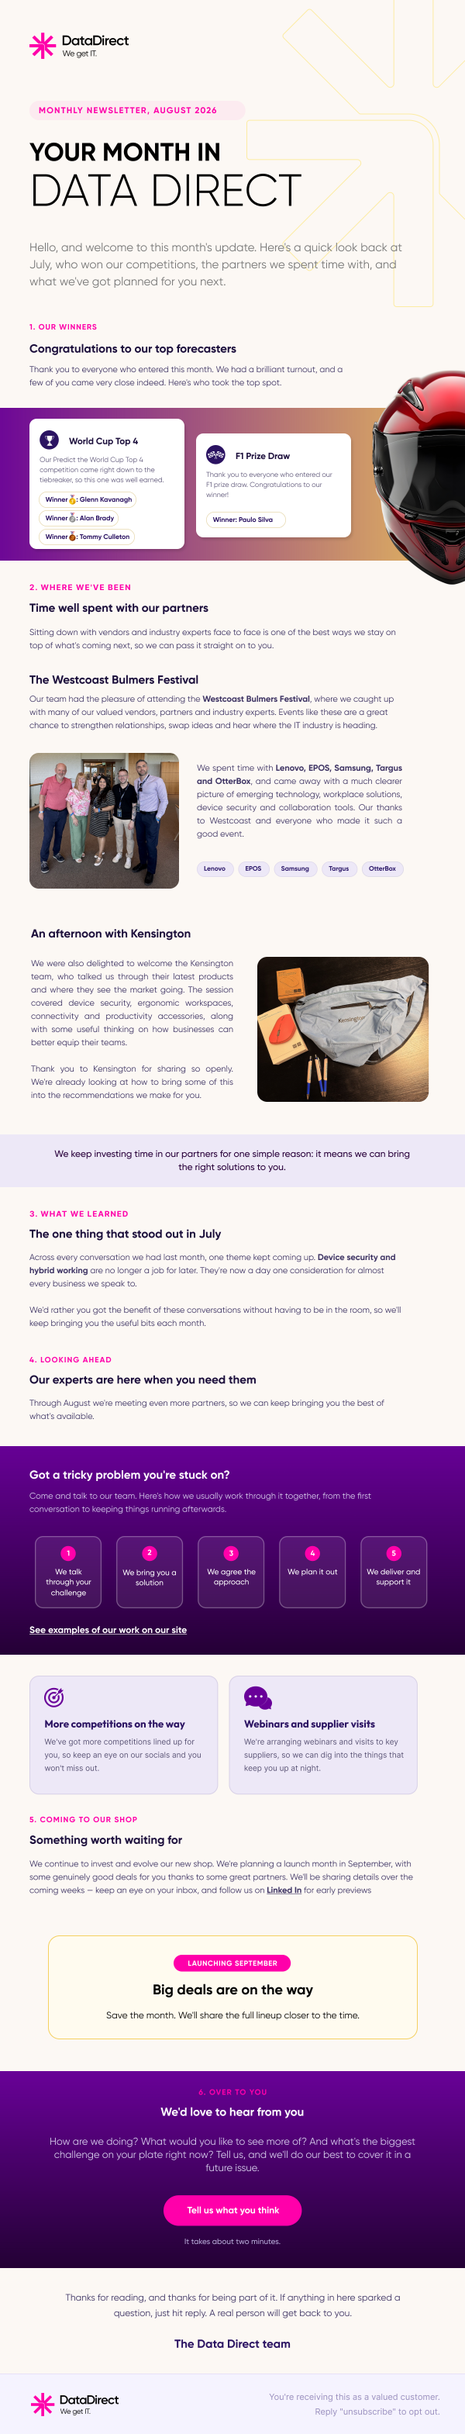
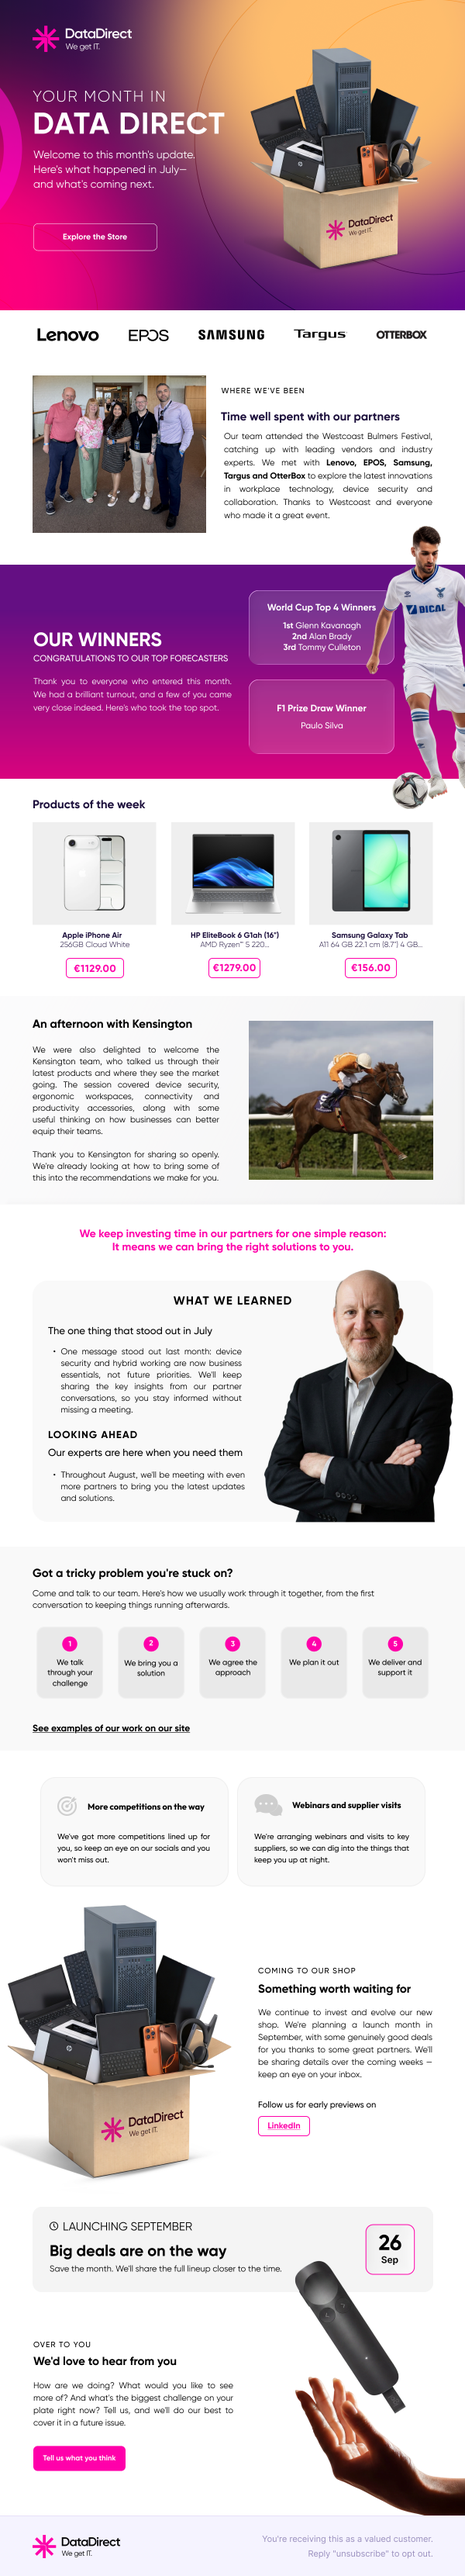
newsletter: replace with new August design (Figma 83:20), image-based
New richer layout (hero + Explore the Store, partner logos, winners with
footballer, Products of the Week with prices, Kensington, lifecycle,
Launching September, over-to-you). Same image-based method: Figma exported at
2x, sliced into 8 responsive images with explicit heights, CTAs linked. FINAL
folder now holds this design; slices renamed nl2-1…8.

diff --git a/monthly-newsletter/FINAL/index-hubspot.html b/monthly-newsletter/FINAL/index-hubspot.html
@@ -1,45 +1,18 @@
 <!DOCTYPE html PUBLIC "-//W3C//DTD XHTML 1.0 Transitional//EN" "https://www.w3.org/TR/xhtml1/DTD/xhtml1-transitional.dtd">
-<html xmlns="http://www.w3.org/1999/xhtml" lang="en" xml:lang="en">
-<head>
-<meta charset="utf-8" />
-<meta name="viewport" content="width=device-width, initial-scale=1.0" />
-<meta http-equiv="X-UA-Compatible" content="IE=edge" />
-<meta name="format-detection" content="telephone=no, date=no, address=no, email=no, url=no" />
-<title>Your Month in DataDirect &mdash; Monthly Newsletter</title>
-<style type="text/css">
-  html, body { margin:0 !important; padding:0 !important; }
-  body { background-color:#e8e1d7; }
-  img { border:0; outline:none; text-decoration:none; display:block; -ms-interpolation-mode:bicubic; }
-  table { border-collapse:collapse !important; }
-  a img { border:0; }
-  /* Slices scale proportionally to the screen width = exact design, zoomed out. No reflow, no stacking. */
-  .slice { width:100% !important; max-width:600px !important; height:auto !important; display:block; }
-</style>
-</head>
-<body style="margin:0; padding:0; background-color:#e8e1d7;">
-  <div style="display:none; overflow:hidden; line-height:1px; opacity:0; max-height:0; max-width:0; mso-hide:all; font-size:1px; color:#e8e1d7;">
-    Your month in DataDirect &mdash; winners, partner visits, what we learned in July, and what&rsquo;s coming next.
-  </div>
-  <table role="presentation" width="100%" cellpadding="0" cellspacing="0" border="0" style="background-color:#e8e1d7;">
-    <tr><td align="center" style="padding:0;">
-      <table role="presentation" width="600" cellpadding="0" cellspacing="0" border="0" style="width:100%; max-width:600px;">
-        <tr><td style="padding:0; font-size:0; line-height:0;">
-          <img src="https://146425634.fs1.hubspotusercontent-eu1.net/hubfs/146425634/nl-1.png" width="600" height="1850" class="slice" alt="Your month in DataDirect. Our winners: World Cup Top 4 (Glenn Kavanagh, Alan Brady, Tommy Culleton) and F1 Prize Draw (Paulo Silva). Where we've been: the Westcoast Bulmers Festival with Lenovo, EPOS, Samsung, Targus and OtterBox, and an afternoon with Kensington." style="width:100%; max-width:600px; height:auto; display:block;" />
-        </td></tr>
-        <tr><td style="padding:0; font-size:0; line-height:0;">
-          <a href="https://www.datadirect.ie/it-solutions" target="_blank"><img src="https://146425634.fs1.hubspotusercontent-eu1.net/hubfs/146425634/nl-2.png" width="600" height="285" class="slice" alt="Got a tricky problem you're stuck on? Here's how our team works through it with you. See examples of our work on our site." style="width:100%; max-width:600px; height:auto; display:block;" /></a>
-        </td></tr>
-        <tr><td style="padding:0; font-size:0; line-height:0;">
-          <img src="https://146425634.fs1.hubspotusercontent-eu1.net/hubfs/146425634/nl-3.png" width="600" height="520" class="slice" alt="More competitions and webinars on the way. Coming to our shop: big deals launching September." style="width:100%; max-width:600px; height:auto; display:block;" />
-        </td></tr>
-        <tr><td style="padding:0; font-size:0; line-height:0;">
-          <a href="mailto:sales@datadirect.ie"><img src="https://146425634.fs1.hubspotusercontent-eu1.net/hubfs/146425634/nl-4.png" width="600" height="270" class="slice" alt="We'd love to hear from you — tell us what you think." style="width:100%; max-width:600px; height:auto; display:block;" /></a>
-        </td></tr>
-        <tr><td style="padding:0; font-size:0; line-height:0;">
-          <img src="https://146425634.fs1.hubspotusercontent-eu1.net/hubfs/146425634/nl-5.png" width="600" height="214" class="slice" alt="Thanks for reading. The Data Direct team." style="width:100%; max-width:600px; height:auto; display:block;" />
-        </td></tr>
-      </table>
-    </td></tr>
-  </table>
-</body>
-</html>
+<html xmlns="http://www.w3.org/1999/xhtml"><head>
+<meta charset="utf-8" /><meta name="viewport" content="width=device-width, initial-scale=1.0" />
+<title>Your Month in DataDirect</title>
+<style>html,body{margin:0!important;padding:0!important}body{background:#efe9f2}img{border:0;display:block;-ms-interpolation-mode:bicubic}table{border-collapse:collapse!important}</style>
+</head><body style="margin:0;padding:0;background:#efe9f2;">
+<div style="display:none;max-height:0;overflow:hidden;opacity:0;color:#efe9f2;font-size:1px;">Your month in DataDirect — winners, products of the week, partners, and what's coming next.</div>
+<table role="presentation" width="100%" cellpadding="0" cellspacing="0" border="0" style="background:#efe9f2;"><tr><td align="center" style="padding:0;">
+<table role="presentation" width="600" cellpadding="0" cellspacing="0" border="0" style="width:100%;max-width:600px;">
+<tr><td style="padding:0;font-size:0;line-height:0;"><a href="https://www.datadirect.ie" target="_blank" style="display:block;line-height:0;"><img src="https://146425634.fs1.hubspotusercontent-eu1.net/hubfs/146425634/nl2-1.png" width="600" height="490" alt="Your month in DataDirect — welcome. Explore the store." style="display:block;width:100%;max-width:600px;height:auto;border:0;" /></a></td></tr>
+<tr><td style="padding:0;font-size:0;line-height:0;"><img src="https://146425634.fs1.hubspotusercontent-eu1.net/hubfs/146425634/nl2-2.png" width="600" height="520" alt="Where we've been; Our winners: World Cup Top 4 and F1 Prize Draw." style="display:block;width:100%;max-width:600px;height:auto;border:0;" /></td></tr>
+<tr><td style="padding:0;font-size:0;line-height:0;"><a href="https://www.datadirect.ie" target="_blank" style="display:block;line-height:0;"><img src="https://146425634.fs1.hubspotusercontent-eu1.net/hubfs/146425634/nl2-3.png" width="600" height="255" alt="Products of the week — iPhone Air, HP EliteBook, Samsung Galaxy Tab." style="display:block;width:100%;max-width:600px;height:auto;border:0;" /></a></td></tr>
+<tr><td style="padding:0;font-size:0;line-height:0;"><img src="https://146425634.fs1.hubspotusercontent-eu1.net/hubfs/146425634/nl2-4.png" width="600" height="729" alt="An afternoon with Kensington; what we learned; looking ahead." style="display:block;width:100%;max-width:600px;height:auto;border:0;" /></td></tr>
+<tr><td style="padding:0;font-size:0;line-height:0;"><a href="https://www.datadirect.ie/it-solutions" target="_blank" style="display:block;line-height:0;"><img src="https://146425634.fs1.hubspotusercontent-eu1.net/hubfs/146425634/nl2-5.png" width="600" height="276" alt="Got a tricky problem? See examples of our work." style="display:block;width:100%;max-width:600px;height:auto;border:0;" /></a></td></tr>
+<tr><td style="padding:0;font-size:0;line-height:0;"><img src="https://146425634.fs1.hubspotusercontent-eu1.net/hubfs/146425634/nl2-6.png" width="600" height="180" alt="More competitions; webinars and supplier visits." style="display:block;width:100%;max-width:600px;height:auto;border:0;" /></td></tr>
+<tr><td style="padding:0;font-size:0;line-height:0;"><a href="https://www.linkedin.com/company/data-direct/posts/?feedView=all" target="_blank" style="display:block;line-height:0;"><img src="https://146425634.fs1.hubspotusercontent-eu1.net/hubfs/146425634/nl2-7.png" width="600" height="550" alt="Coming to our shop — launching September. Follow on LinkedIn." style="display:block;width:100%;max-width:600px;height:auto;border:0;" /></a></td></tr>
+<tr><td style="padding:0;font-size:0;line-height:0;"><a href="mailto:sales@datadirect.ie" target="_blank" style="display:block;line-height:0;"><img src="https://146425634.fs1.hubspotusercontent-eu1.net/hubfs/146425634/nl2-8.png" width="600" height="321" alt="Over to you — tell us what you think." style="display:block;width:100%;max-width:600px;height:auto;border:0;" /></a></td></tr>
+</table></td></tr></table></body></html>

diff --git a/monthly-newsletter/FINAL/index-FINAL.html b/monthly-newsletter/FINAL/index-FINAL.html
@@ -1,45 +1,18 @@
 <!DOCTYPE html PUBLIC "-//W3C//DTD XHTML 1.0 Transitional//EN" "https://www.w3.org/TR/xhtml1/DTD/xhtml1-transitional.dtd">
-<html xmlns="http://www.w3.org/1999/xhtml" lang="en" xml:lang="en">
-<head>
-<meta charset="utf-8" />
-<meta name="viewport" content="width=device-width, initial-scale=1.0" />
-<meta http-equiv="X-UA-Compatible" content="IE=edge" />
-<meta name="format-detection" content="telephone=no, date=no, address=no, email=no, url=no" />
-<title>Your Month in DataDirect &mdash; Monthly Newsletter</title>
-<style type="text/css">
-  html, body { margin:0 !important; padding:0 !important; }
-  body { background-color:#e8e1d7; }
-  img { border:0; outline:none; text-decoration:none; display:block; -ms-interpolation-mode:bicubic; }
-  table { border-collapse:collapse !important; }
-  a img { border:0; }
-  /* Slices scale proportionally to the screen width = exact design, zoomed out. No reflow, no stacking. */
-  .slice { width:100% !important; max-width:600px !important; height:auto !important; display:block; }
-</style>
-</head>
-<body style="margin:0; padding:0; background-color:#e8e1d7;">
-  <div style="display:none; overflow:hidden; line-height:1px; opacity:0; max-height:0; max-width:0; mso-hide:all; font-size:1px; color:#e8e1d7;">
-    Your month in DataDirect &mdash; winners, partner visits, what we learned in July, and what&rsquo;s coming next.
-  </div>
-  <table role="presentation" width="100%" cellpadding="0" cellspacing="0" border="0" style="background-color:#e8e1d7;">
-    <tr><td align="center" style="padding:0;">
-      <table role="presentation" width="600" cellpadding="0" cellspacing="0" border="0" style="width:100%; max-width:600px;">
-        <tr><td style="padding:0; font-size:0; line-height:0;">
-          <img src="https://files.catbox.moe/0jdy30.png" width="600" height="1850" class="slice" alt="Your month in DataDirect. Our winners: World Cup Top 4 (Glenn Kavanagh, Alan Brady, Tommy Culleton) and F1 Prize Draw (Paulo Silva). Where we've been: the Westcoast Bulmers Festival with Lenovo, EPOS, Samsung, Targus and OtterBox, and an afternoon with Kensington." style="width:100%; max-width:600px; height:auto; display:block;" />
-        </td></tr>
-        <tr><td style="padding:0; font-size:0; line-height:0;">
-          <a href="https://www.datadirect.ie/it-solutions" target="_blank"><img src="https://files.catbox.moe/c2qzc5.png" width="600" height="285" class="slice" alt="Got a tricky problem you're stuck on? Here's how our team works through it with you. See examples of our work on our site." style="width:100%; max-width:600px; height:auto; display:block;" /></a>
-        </td></tr>
-        <tr><td style="padding:0; font-size:0; line-height:0;">
-          <img src="https://files.catbox.moe/67ri7r.png" width="600" height="520" class="slice" alt="More competitions and webinars on the way. Coming to our shop: big deals launching September." style="width:100%; max-width:600px; height:auto; display:block;" />
-        </td></tr>
-        <tr><td style="padding:0; font-size:0; line-height:0;">
-          <a href="mailto:sales@datadirect.ie"><img src="https://files.catbox.moe/t7xz3l.png" width="600" height="270" class="slice" alt="We'd love to hear from you — tell us what you think." style="width:100%; max-width:600px; height:auto; display:block;" /></a>
-        </td></tr>
-        <tr><td style="padding:0; font-size:0; line-height:0;">
-          <img src="https://files.catbox.moe/p3a1r3.png" width="600" height="214" class="slice" alt="Thanks for reading. The Data Direct team." style="width:100%; max-width:600px; height:auto; display:block;" />
-        </td></tr>
-      </table>
-    </td></tr>
-  </table>
-</body>
-</html>
+<html xmlns="http://www.w3.org/1999/xhtml"><head>
+<meta charset="utf-8" /><meta name="viewport" content="width=device-width, initial-scale=1.0" />
+<title>Your Month in DataDirect</title>
+<style>html,body{margin:0!important;padding:0!important}body{background:#efe9f2}img{border:0;display:block;-ms-interpolation-mode:bicubic}table{border-collapse:collapse!important}</style>
+</head><body style="margin:0;padding:0;background:#efe9f2;">
+<div style="display:none;max-height:0;overflow:hidden;opacity:0;color:#efe9f2;font-size:1px;">Your month in DataDirect — winners, products of the week, partners, and what's coming next.</div>
+<table role="presentation" width="100%" cellpadding="0" cellspacing="0" border="0" style="background:#efe9f2;"><tr><td align="center" style="padding:0;">
+<table role="presentation" width="600" cellpadding="0" cellspacing="0" border="0" style="width:100%;max-width:600px;">
+<tr><td style="padding:0;font-size:0;line-height:0;"><a href="https://www.datadirect.ie" target="_blank" style="display:block;line-height:0;"><img src="https://files.catbox.moe/lzaio9.png" width="600" height="490" alt="Your month in DataDirect — welcome. Explore the store." style="display:block;width:100%;max-width:600px;height:auto;border:0;" /></a></td></tr>
+<tr><td style="padding:0;font-size:0;line-height:0;"><img src="https://files.catbox.moe/d7vm08.png" width="600" height="520" alt="Where we've been; Our winners: World Cup Top 4 and F1 Prize Draw." style="display:block;width:100%;max-width:600px;height:auto;border:0;" /></td></tr>
+<tr><td style="padding:0;font-size:0;line-height:0;"><a href="https://www.datadirect.ie" target="_blank" style="display:block;line-height:0;"><img src="https://files.catbox.moe/adzrzb.png" width="600" height="255" alt="Products of the week — iPhone Air, HP EliteBook, Samsung Galaxy Tab." style="display:block;width:100%;max-width:600px;height:auto;border:0;" /></a></td></tr>
+<tr><td style="padding:0;font-size:0;line-height:0;"><img src="https://files.catbox.moe/j8arvf.png" width="600" height="729" alt="An afternoon with Kensington; what we learned; looking ahead." style="display:block;width:100%;max-width:600px;height:auto;border:0;" /></td></tr>
+<tr><td style="padding:0;font-size:0;line-height:0;"><a href="https://www.datadirect.ie/it-solutions" target="_blank" style="display:block;line-height:0;"><img src="https://files.catbox.moe/m6ubij.png" width="600" height="276" alt="Got a tricky problem? See examples of our work." style="display:block;width:100%;max-width:600px;height:auto;border:0;" /></a></td></tr>
+<tr><td style="padding:0;font-size:0;line-height:0;"><img src="https://files.catbox.moe/jcoawg.png" width="600" height="180" alt="More competitions; webinars and supplier visits." style="display:block;width:100%;max-width:600px;height:auto;border:0;" /></td></tr>
+<tr><td style="padding:0;font-size:0;line-height:0;"><a href="https://www.linkedin.com/company/data-direct/posts/?feedView=all" target="_blank" style="display:block;line-height:0;"><img src="https://files.catbox.moe/2cej30.png" width="600" height="550" alt="Coming to our shop — launching September. Follow on LinkedIn." style="display:block;width:100%;max-width:600px;height:auto;border:0;" /></a></td></tr>
+<tr><td style="padding:0;font-size:0;line-height:0;"><a href="mailto:sales@datadirect.ie" target="_blank" style="display:block;line-height:0;"><img src="https://files.catbox.moe/xl5mbk.png" width="600" height="321" alt="Over to you — tell us what you think." style="display:block;width:100%;max-width:600px;height:auto;border:0;" /></a></td></tr>
+</table></td></tr></table></body></html>

diff --git a/monthly-newsletter/FINAL/index-relative.html b/monthly-newsletter/FINAL/index-relative.html
@@ -1,45 +1,18 @@
 <!DOCTYPE html PUBLIC "-//W3C//DTD XHTML 1.0 Transitional//EN" "https://www.w3.org/TR/xhtml1/DTD/xhtml1-transitional.dtd">
-<html xmlns="http://www.w3.org/1999/xhtml" lang="en" xml:lang="en">
-<head>
-<meta charset="utf-8" />
-<meta name="viewport" content="width=device-width, initial-scale=1.0" />
-<meta http-equiv="X-UA-Compatible" content="IE=edge" />
-<meta name="format-detection" content="telephone=no, date=no, address=no, email=no, url=no" />
-<title>Your Month in DataDirect &mdash; Monthly Newsletter</title>
-<style type="text/css">
-  html, body { margin:0 !important; padding:0 !important; }
-  body { background-color:#e8e1d7; }
-  img { border:0; outline:none; text-decoration:none; display:block; -ms-interpolation-mode:bicubic; }
-  table { border-collapse:collapse !important; }
-  a img { border:0; }
-  /* Slices scale proportionally to the screen width = exact design, zoomed out. No reflow, no stacking. */
-  .slice { width:100% !important; max-width:600px !important; height:auto !important; display:block; }
-</style>
-</head>
-<body style="margin:0; padding:0; background-color:#e8e1d7;">
-  <div style="display:none; overflow:hidden; line-height:1px; opacity:0; max-height:0; max-width:0; mso-hide:all; font-size:1px; color:#e8e1d7;">
-    Your month in DataDirect &mdash; winners, partner visits, what we learned in July, and what&rsquo;s coming next.
-  </div>
-  <table role="presentation" width="100%" cellpadding="0" cellspacing="0" border="0" style="background-color:#e8e1d7;">
-    <tr><td align="center" style="padding:0;">
-      <table role="presentation" width="600" cellpadding="0" cellspacing="0" border="0" style="width:100%; max-width:600px;">
-        <tr><td style="padding:0; font-size:0; line-height:0;">
-          <img src="slices/nl-1.png" width="600" height="1850" class="slice" alt="Your month in DataDirect. Our winners: World Cup Top 4 (Glenn Kavanagh, Alan Brady, Tommy Culleton) and F1 Prize Draw (Paulo Silva). Where we've been: the Westcoast Bulmers Festival with Lenovo, EPOS, Samsung, Targus and OtterBox, and an afternoon with Kensington." style="width:100%; max-width:600px; height:auto; display:block;" />
-        </td></tr>
-        <tr><td style="padding:0; font-size:0; line-height:0;">
-          <a href="https://www.datadirect.ie/it-solutions" target="_blank"><img src="slices/nl-2.png" width="600" height="285" class="slice" alt="Got a tricky problem you're stuck on? Here's how our team works through it with you. See examples of our work on our site." style="width:100%; max-width:600px; height:auto; display:block;" /></a>
-        </td></tr>
-        <tr><td style="padding:0; font-size:0; line-height:0;">
-          <img src="slices/nl-3.png" width="600" height="520" class="slice" alt="More competitions and webinars on the way. Coming to our shop: big deals launching September." style="width:100%; max-width:600px; height:auto; display:block;" />
-        </td></tr>
-        <tr><td style="padding:0; font-size:0; line-height:0;">
-          <a href="mailto:sales@datadirect.ie"><img src="slices/nl-4.png" width="600" height="270" class="slice" alt="We'd love to hear from you — tell us what you think." style="width:100%; max-width:600px; height:auto; display:block;" /></a>
-        </td></tr>
-        <tr><td style="padding:0; font-size:0; line-height:0;">
-          <img src="slices/nl-5.png" width="600" height="214" class="slice" alt="Thanks for reading. The Data Direct team." style="width:100%; max-width:600px; height:auto; display:block;" />
-        </td></tr>
-      </table>
-    </td></tr>
-  </table>
-</body>
-</html>
+<html xmlns="http://www.w3.org/1999/xhtml"><head>
+<meta charset="utf-8" /><meta name="viewport" content="width=device-width, initial-scale=1.0" />
+<title>Your Month in DataDirect</title>
+<style>html,body{margin:0!important;padding:0!important}body{background:#efe9f2}img{border:0;display:block;-ms-interpolation-mode:bicubic}table{border-collapse:collapse!important}</style>
+</head><body style="margin:0;padding:0;background:#efe9f2;">
+<div style="display:none;max-height:0;overflow:hidden;opacity:0;color:#efe9f2;font-size:1px;">Your month in DataDirect — winners, products of the week, partners, and what's coming next.</div>
+<table role="presentation" width="100%" cellpadding="0" cellspacing="0" border="0" style="background:#efe9f2;"><tr><td align="center" style="padding:0;">
+<table role="presentation" width="600" cellpadding="0" cellspacing="0" border="0" style="width:100%;max-width:600px;">
+<tr><td style="padding:0;font-size:0;line-height:0;"><a href="https://www.datadirect.ie" target="_blank" style="display:block;line-height:0;"><img src="slices/nl2-1.png" width="600" height="490" alt="Your month in DataDirect — welcome. Explore the store." style="display:block;width:100%;max-width:600px;height:auto;border:0;" /></a></td></tr>
+<tr><td style="padding:0;font-size:0;line-height:0;"><img src="slices/nl2-2.png" width="600" height="520" alt="Where we've been — partners; Our winners: World Cup Top 4 and F1 Prize Draw." style="display:block;width:100%;max-width:600px;height:auto;border:0;" /></td></tr>
+<tr><td style="padding:0;font-size:0;line-height:0;"><a href="https://www.datadirect.ie" target="_blank" style="display:block;line-height:0;"><img src="slices/nl2-3.png" width="600" height="255" alt="Products of the week — Apple iPhone Air, HP EliteBook, Samsung Galaxy Tab." style="display:block;width:100%;max-width:600px;height:auto;border:0;" /></a></td></tr>
+<tr><td style="padding:0;font-size:0;line-height:0;"><img src="slices/nl2-4.png" width="600" height="729" alt="An afternoon with Kensington; what we learned in July; looking ahead." style="display:block;width:100%;max-width:600px;height:auto;border:0;" /></td></tr>
+<tr><td style="padding:0;font-size:0;line-height:0;"><a href="https://www.datadirect.ie/it-solutions" target="_blank" style="display:block;line-height:0;"><img src="slices/nl2-5.png" width="600" height="276" alt="Got a tricky problem? How our team works with you. See examples of our work." style="display:block;width:100%;max-width:600px;height:auto;border:0;" /></a></td></tr>
+<tr><td style="padding:0;font-size:0;line-height:0;"><img src="slices/nl2-6.png" width="600" height="180" alt="More competitions on the way; webinars and supplier visits." style="display:block;width:100%;max-width:600px;height:auto;border:0;" /></td></tr>
+<tr><td style="padding:0;font-size:0;line-height:0;"><a href="https://www.linkedin.com/company/data-direct/posts/?feedView=all" target="_blank" style="display:block;line-height:0;"><img src="slices/nl2-7.png" width="600" height="550" alt="Coming to our shop — launching September. Follow us on LinkedIn." style="display:block;width:100%;max-width:600px;height:auto;border:0;" /></a></td></tr>
+<tr><td style="padding:0;font-size:0;line-height:0;"><a href="mailto:sales@datadirect.ie" target="_blank" style="display:block;line-height:0;"><img src="slices/nl2-8.png" width="600" height="321" alt="Over to you — we'd love to hear from you. Tell us what you think." style="display:block;width:100%;max-width:600px;height:auto;border:0;" /></a></td></tr>
+</table></td></tr></table></body></html>

diff --git a/monthly-newsletter/FINAL/README.md b/monthly-newsletter/FINAL/README.md
@@ -1,24 +1,21 @@
-# ✅ FINAL — DataDirect Monthly Newsletter (image-based, tested & approved)
+# ✅ FINAL — DataDirect Monthly Newsletter (August design, image-based)
 
-This is the shipped version. The whole Figma design is exported and sliced into
-5 responsive images (`slices/nl-1…5.png`). Each image is `width:100%` so on any
-screen the entire design **scales down proportionally (zoom-out)** — identical
-to Figma, no reflow, no column stacking, no text drop — and it renders the same
-in every client (Gmail incl. iOS, Outlook, Apple Mail).
+The Figma design (node 83:20) exported and sliced into 8 responsive images
+(`slices/nl2-1…8.png`). Each is `width:100%` → the whole design scales down
+proportionally on mobile (zoom-out), identical to Figma, no reflow, on every
+client. Every slice has explicit `height` so mobile mail can't clip it.
 
 ## Files
-- **`index-FINAL.html`** — the tested file. Slice URLs point at an external
-  image host (catbox.moe) so it renders anywhere immediately (preview / send).
-- `index-hubspot.html` — same HTML, slice URLs point at the HubSpot CDN
-  (`hubfs/146425634/nl-1…5.png`). Use this for the real HubSpot send after
-  uploading the 5 slices to HubSpot Files.
-- `index-relative.html` — slice URLs are local `slices/nl-X.png` (local preview).
-- `slices/` — the 5 image slices to host.
-- `preview-desktop.png` / `preview-mobile.png`.
+- **`index-FINAL.html`** — tested; slice URLs on an external host (catbox) so it
+  renders anywhere immediately (preview / quick send).
+- `index-hubspot.html` — same, slice URLs on the HubSpot CDN
+  (`hubfs/146425634/nl2-1…8.png`). Use for the real HubSpot send after uploading
+  the 8 slices to HubSpot Files.
+- `index-relative.html` — local `slices/nl2-X.png` (local preview).
+- `slices/nl2-1…8.png` — the 8 slices to host.
 
-## To send from HubSpot
-1. Upload `slices/nl-1.png … nl-5.png` to HubSpot → Marketing → Files.
-2. Paste `index-hubspot.html` into a HubSpot Custom/Coded email.
-3. Send test → check on phone (it zooms out to fit).
+## Linked CTAs
+Explore the Store / Products → datadirect.ie · See examples → /it-solutions ·
+LinkedIn slice → LinkedIn · Tell us what you think → mailto:sales@datadirect.ie
 
-Build method for the whole repo: see `../../METHOD.md`.
+Method: see `../../METHOD.md`.
